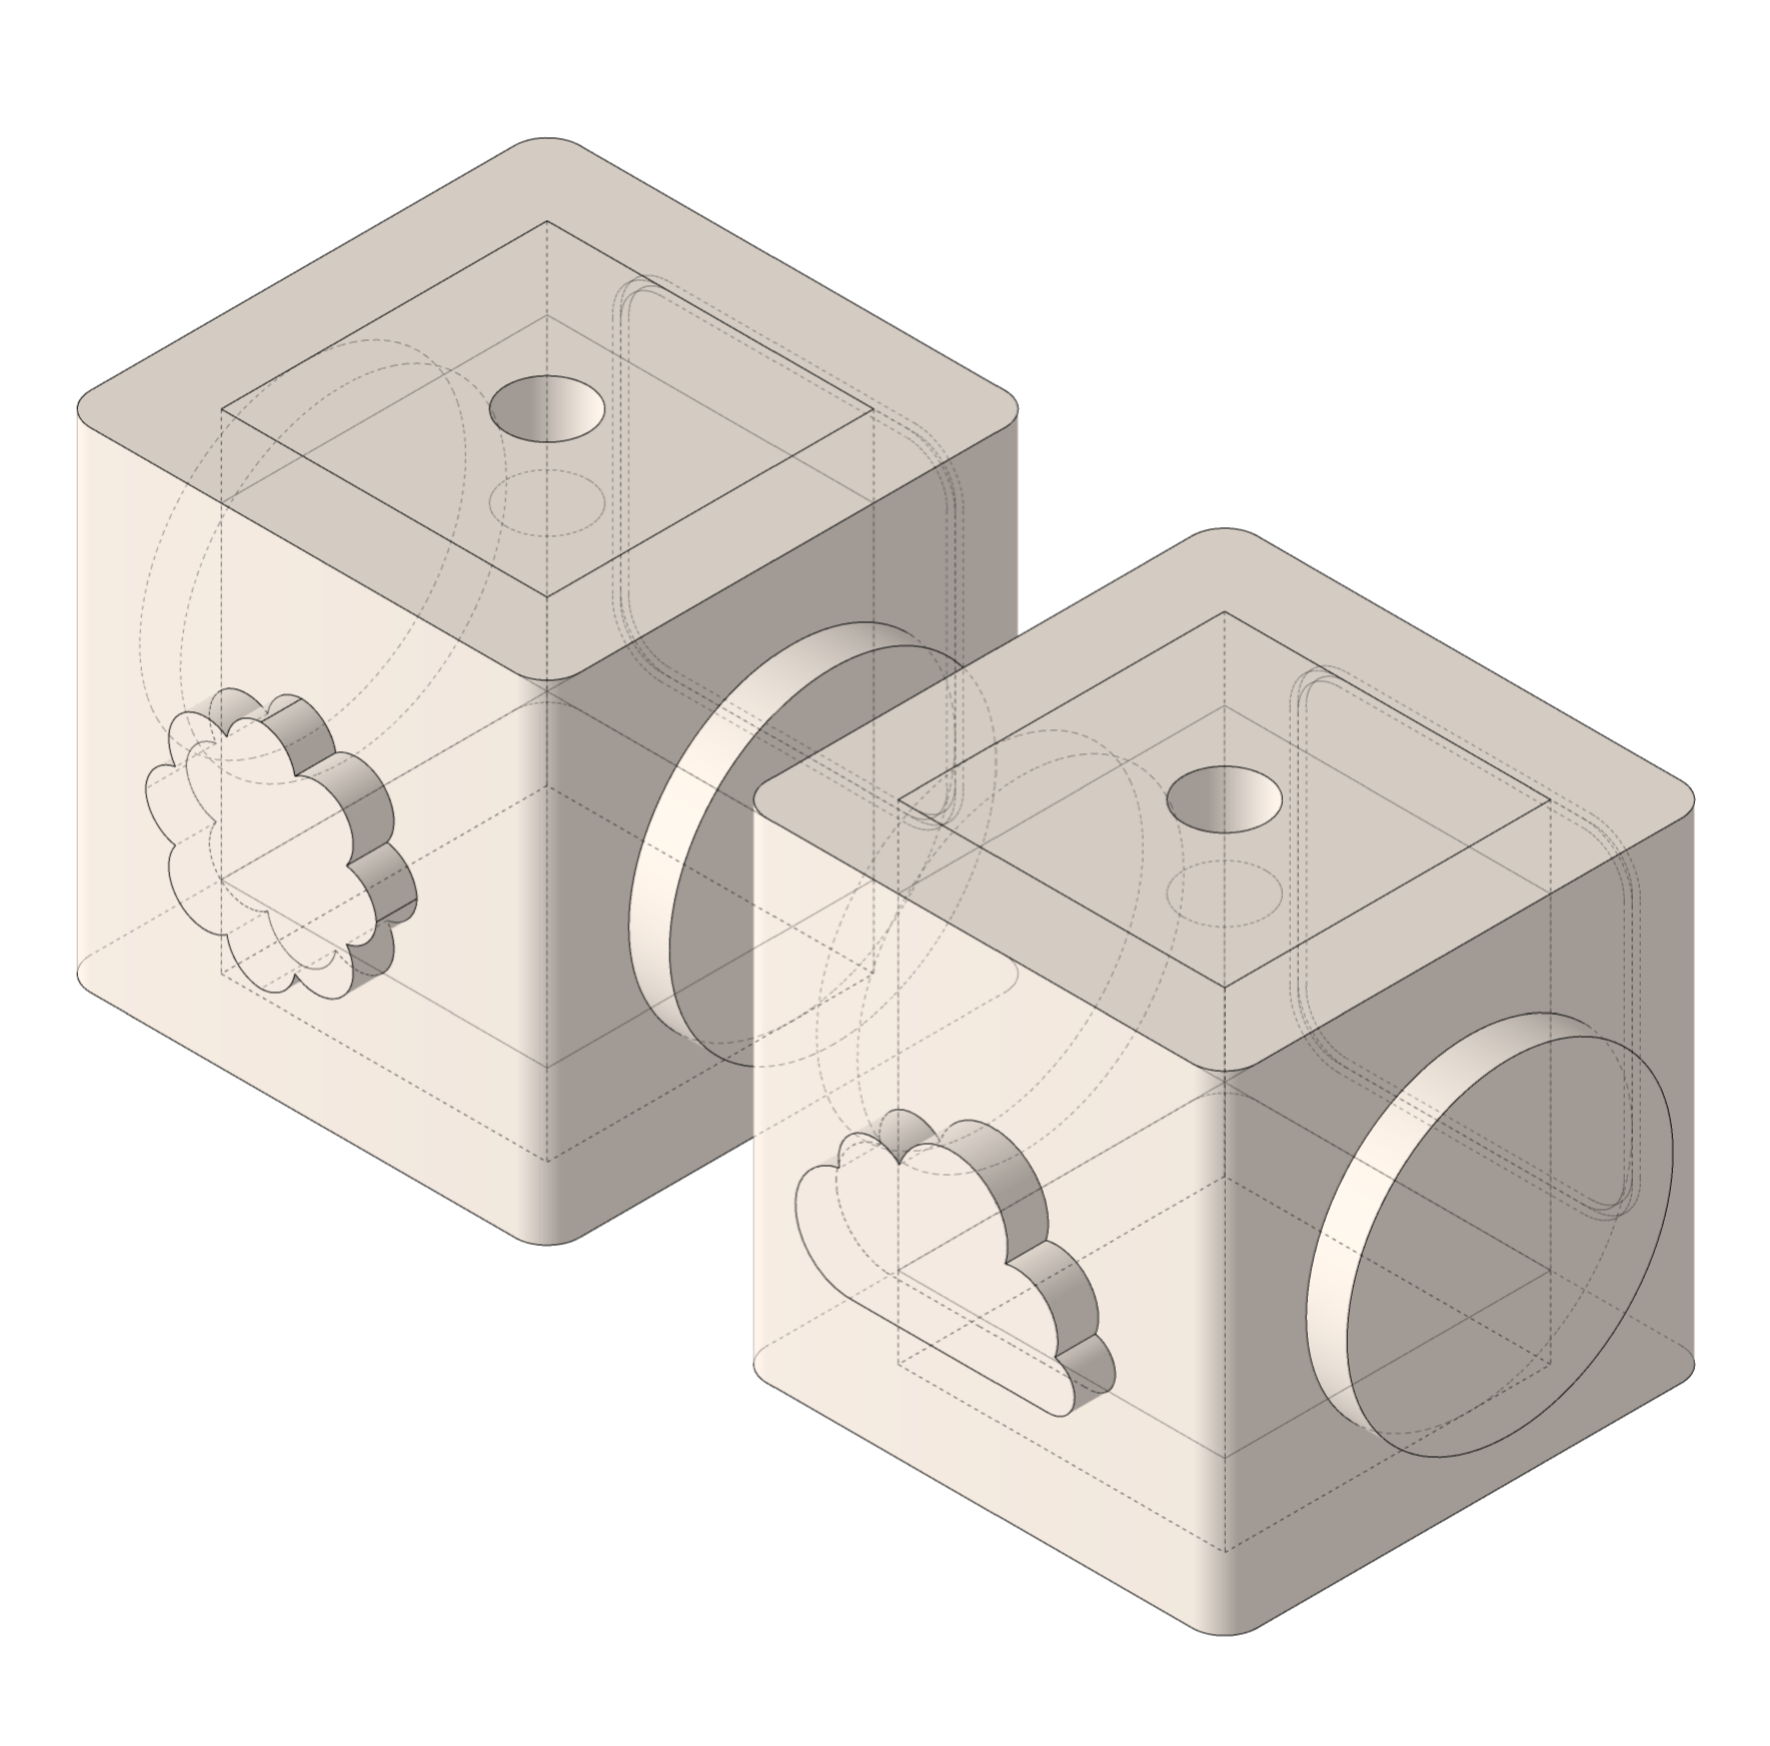
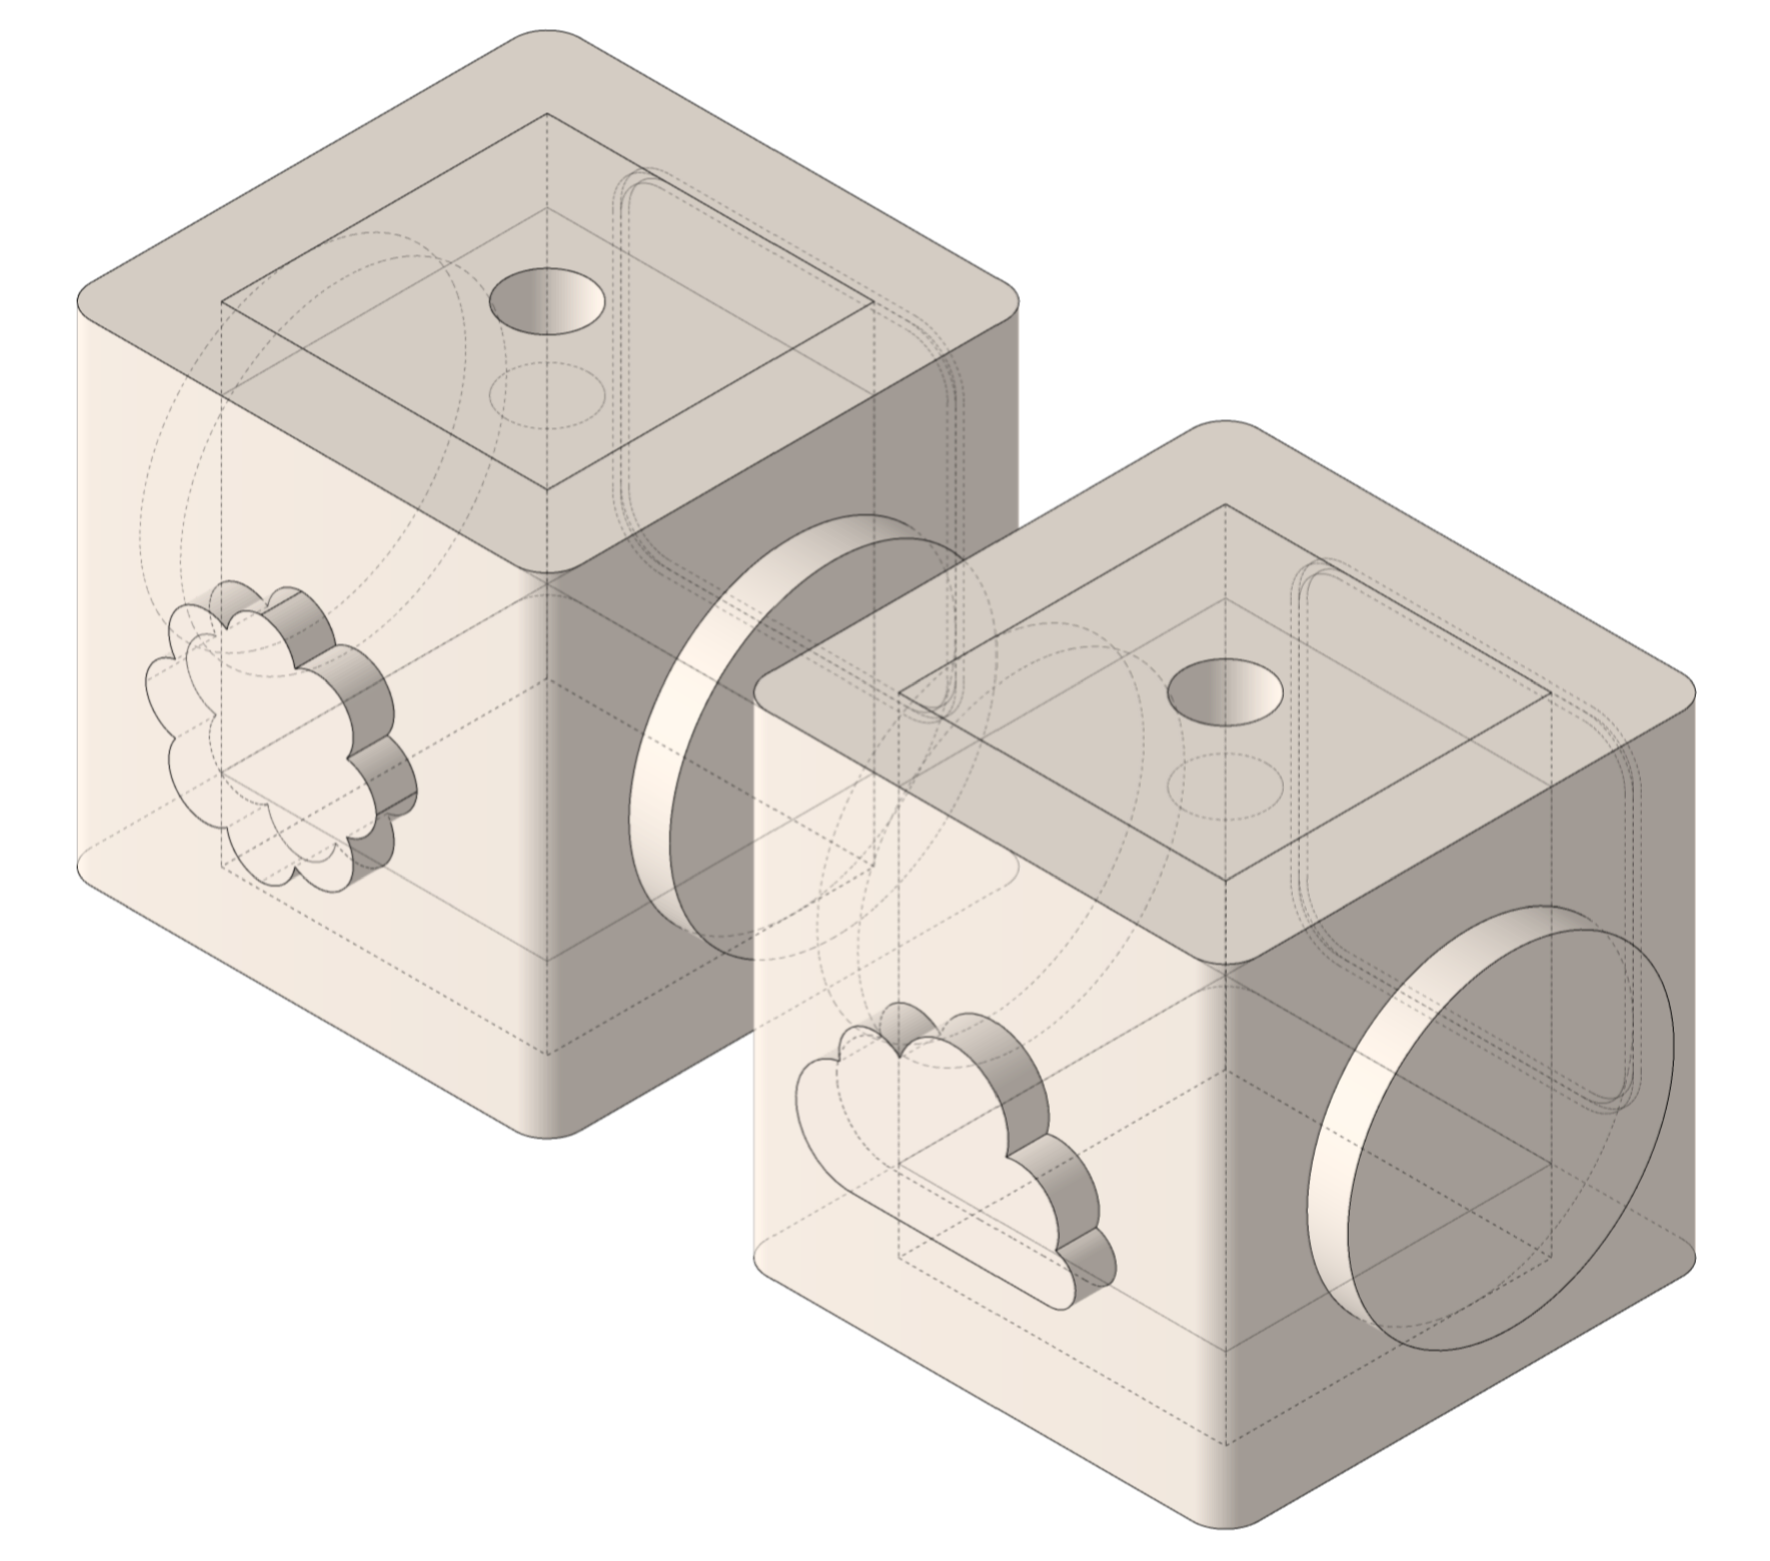
Update projects.

diff --git a/src/utils/projects.js b/src/utils/projects.js
@@ -24,7 +24,7 @@ export const PROJECTS = [
         )}
       </Text>
     ),
-    image: { mobile: "/images/projects/project-01.png" },
+    image: { mobile: { url: "/images/projects/project-01.png", w: "100%" } },
     systemLog: [
       "Designed a visual language inspired by retro desktop OS.",
       "Built a draggable multi-window interface with dynamic window management.",
@@ -65,8 +65,8 @@ export const PROJECTS = [
       </Text>
     ),
     image: {
-      desktop: "/images/projects/project-02.png",
-      mobile: "/images/projects/project-02.png",
+      desktop: { url: "/images/projects/project-02.png", w: "60%" },
+      mobile: { url: "/images/projects/project-02.png", w: "100%" },
     },
     systemLog: [
       "Conducted literature review.",
@@ -104,9 +104,9 @@ export const PROJECTS = [
     slug: "project-04.txt",
     title: "Dream Archives",
     type: "Personal",
-    domain: "Assistive Technology",
+    domain: "Creative Technology",
     tools: ["Phaser", "Next.js", "Procreate", "Pixaki"],
-    status: "In Progress",
+    status: "IN PROGRESS",
     concept: ({ isMobile }) => (
       <Text textAlign={"justify"}>
         Dream Archives is an ongoing personal archive exploring{" "}
@@ -124,8 +124,8 @@ export const PROJECTS = [
       </Text>
     ),
     image: {
-      desktop: "/images/projects/project-02.png",
-      mobile: "/images/projects/project-02.png",
+      desktop: { url: "/images/projects/project-04.png", w: "90%" },
+      mobile: { url: "/images/projects/project-04.png", w: "100%" },
     },
     systemLog: [
       "Designed the overall concept, structure, and visual direction of the archive.",
@@ -135,24 +135,14 @@ export const PROJECTS = [
     ],
     attachments: [
       {
-        label: "PDF",
-        text: "research-paper.pdf",
-        href: "https://drive.google.com/file/d/1P_ss45qDt-ESM5OIafE9XMbh2f-D5k9h/view?usp=sharing",
-      },
-      {
-        label: "VID",
-        text: "demo-video.mp4",
-        href: "https://youtu.be/gFUas5kqWOA",
+        label: "WEB",
+        text: "dream-archives.vercel.app",
+        href: "https://dream-archives.vercel.app/",
       },
       {
         label: "GIT",
-        text: "github.com/fwrhsine/scent-diffuser",
-        href: "https://github.com/fwrhine/scent-diffuser",
-      },
-      {
-        label: "PDF",
-        text: "presentation-slides.pdf",
-        href: "https://canva.link/8rcsyy45ddtmg2w",
+        text: "github.com/fwrhine/dream-archives",
+        href: "https://github.com/fwrhine/dream-archives",
       },
     ],
   },

diff --git a/src/components/widgets/project.js b/src/components/widgets/project.js
@@ -48,6 +48,12 @@ export function ProjectWindow({ project }) {
               );
             })}
           </HStack>
+          {project.status && (
+            <>
+              <Text color={colors.link}>STATUS:</Text>
+              <Text color={colors.link}>{project.status}</Text>
+            </>
+          )}
         </Grid>
       </Stack>
       <Separator />
@@ -59,13 +65,13 @@ export function ProjectWindow({ project }) {
       </Stack>
 
       {!isMobile && project.image.desktop && (
-        <Center>
-          <Image src={project.image.desktop} w={"50%"} />
+        <Center py={3}>
+          <Image src={project.image.desktop.url} w={project.image.desktop.w} />
         </Center>
       )}
       {isMobile && project.image.mobile && (
-        <Center>
-          <Image src={project.image.mobile} w={"90%"} />
+        <Center py={2}>
+          <Image src={project.image.mobile.url} w={project.image.mobile.w} />
         </Center>
       )}
 
